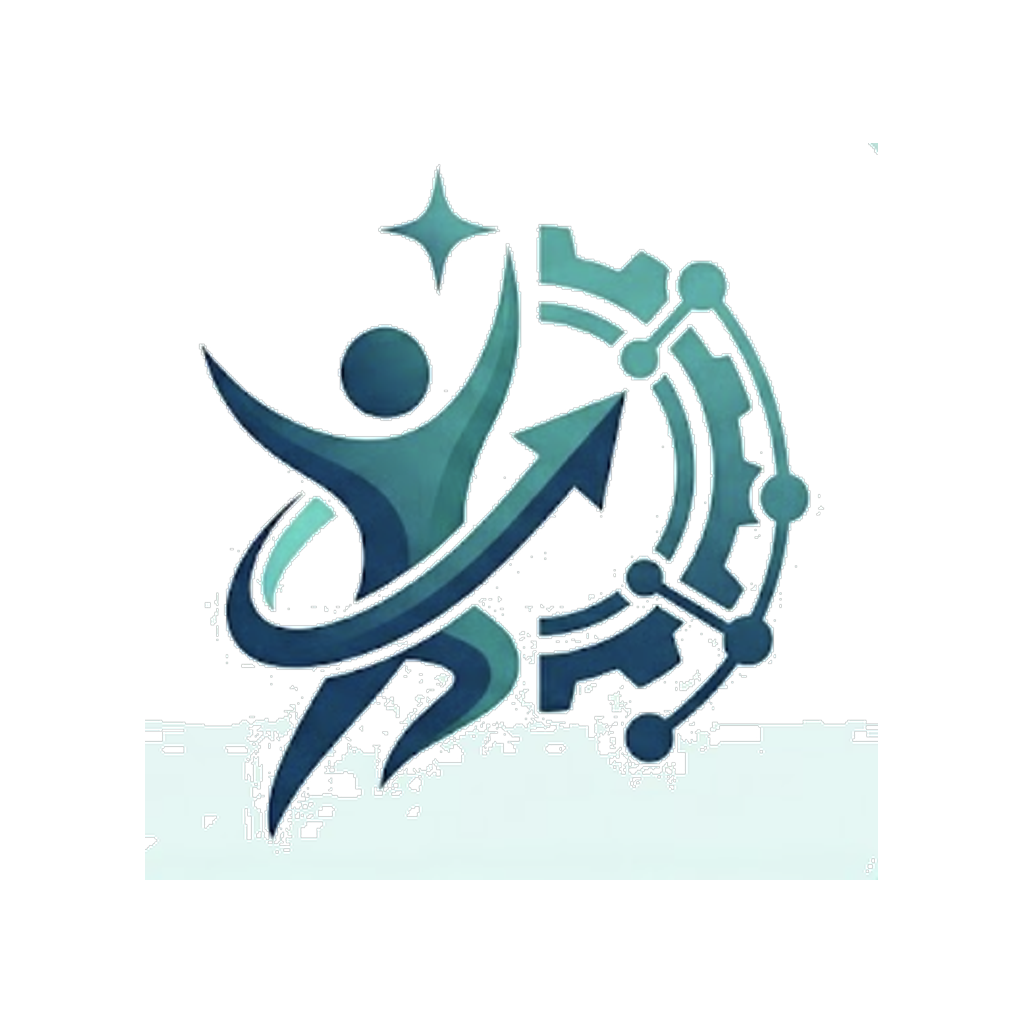
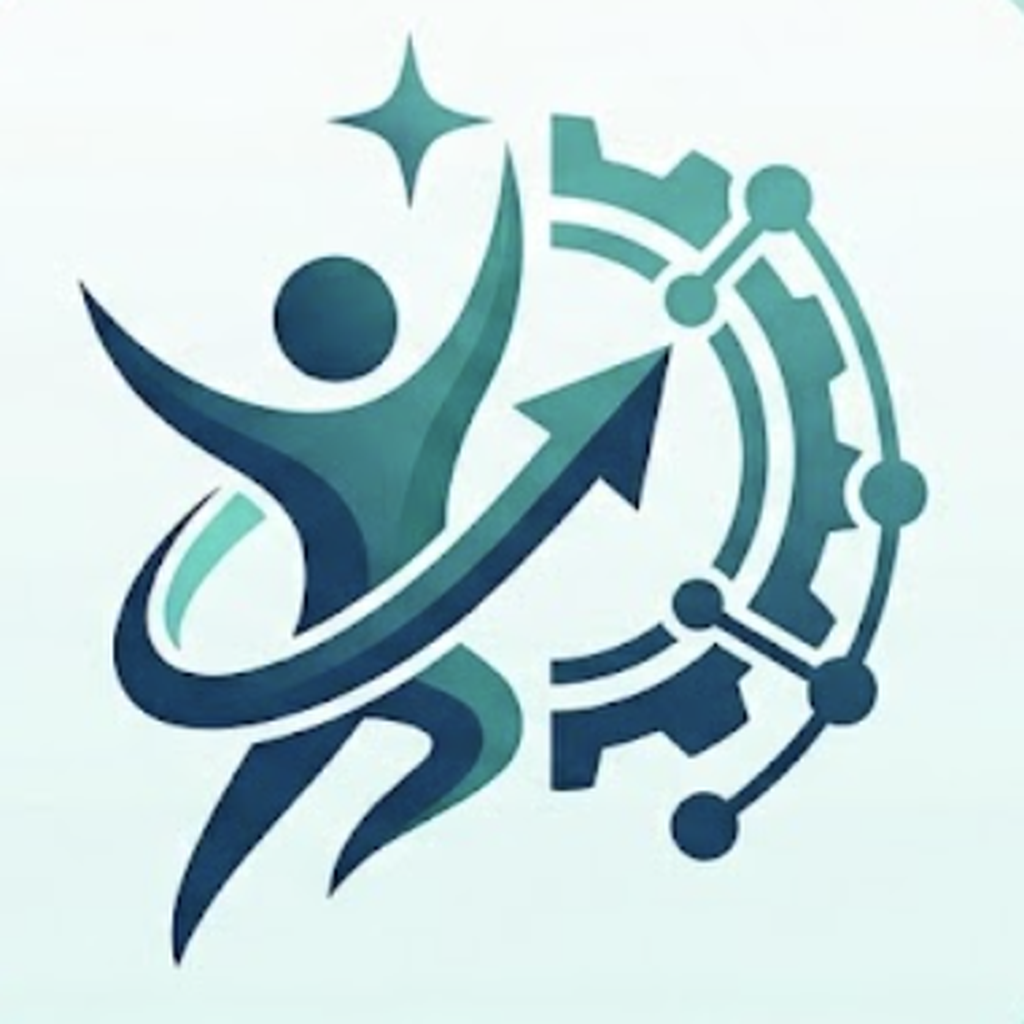
Redesign habit card: unified view + modal edit/delete/details (#11)
* Redesign habit card: unified home/habits view, modal-based edit/delete and details

Card click opens a read-only details modal with stats and simple charts;
the pencil icon opens edit+delete in a modal, and reset streak stays as a
top-corner icon. The same HabitCard is now clearly shared between the home
dashboard and the habits page.

* Fix mobile app icon (was rendering black) and bump native app version to 1.3.0

The bundled icon.png/adaptive-icon.png had a black canvas baked in, so the
iOS/Android app icons showed mostly black instead of the light logo used on
the website. Regenerate both from public/logo.png so they match the site,
and set the Android adaptive icon background to white to match.

---------

diff --git a/app/habits/habit-card.tsx b/app/habits/habit-card.tsx
@@ -3,9 +3,9 @@
 import { useState, useTransition } from "react";
 import { useRouter } from "next/navigation";
 import type { Habit } from "@/lib/types";
-import { Badge, inputClass, PrimaryActionButton, WarnActionButton, IconEditButton, IconDeleteButton } from "@/components/ui";
+import { Badge, inputClass, Modal, PrimaryActionButton, WarnActionButton, IconEditButton } from "@/components/ui";
 import { effectiveStreak, normalizeReportTime } from "@/lib/habit-stats";
-import { localeTag } from "@/lib/i18n/core";
+import { localeTag, formatLocaleDate } from "@/lib/i18n/core";
 import { checkInHabit, resetHabit, deleteHabit, updateHabit, reportHabitFall } from "./actions";
 import { Flame, RotateCcw, Trash2, Check, TrendingUp, ThumbsUp, AlertTriangle, Pencil, Clock } from "lucide-react";
 import { useTranslations } from "@/components/locale-provider";
@@ -14,6 +14,7 @@ export function HabitCard({ habit, today }: { habit: Habit; today: string }) {
   const router = useRouter();
   const { t, locale } = useTranslations();
   const [editing, setEditing] = useState(false);
+  const [viewing, setViewing] = useState(false);
   const [pending, startTransition] = useTransition();
 
   const checkedToday = habit.last_checked_on === today;
@@ -45,8 +46,25 @@ export function HabitCard({ habit, today }: { habit: Habit; today: string }) {
     });
   }
 
+  function onDeleteSubmit(e: React.FormEvent<HTMLFormElement>) {
+    if (!window.confirm(t("habits.confirmDelete", { name: habit.name }))) {
+      e.preventDefault();
+    }
+  }
+
+  const successTotal = successDays + failures;
+  const successPct = successTotal > 0 ? Math.round((successDays / successTotal) * 100) : 0;
+  const failurePct = 100 - successPct;
+  const streakPct = habit.best_streak > 0 ? Math.min(100, Math.round((currentStreak / habit.best_streak) * 100)) : 0;
+
   return (
-    <div className="card flex flex-col gap-1.5 p-3">
+    <div
+      className="card flex cursor-pointer flex-col gap-1.5 p-3 transition hover:border-accent/50"
+      onClick={() => setViewing(true)}
+      role="button"
+      tabIndex={0}
+      title={t("habits.viewDetails")}
+    >
       <div className="flex items-start justify-between gap-2">
         <div className="min-w-0 flex-1">
           <div className="flex flex-wrap items-center gap-1.5">
@@ -59,26 +77,16 @@ export function HabitCard({ habit, today }: { habit: Habit; today: string }) {
             <p className="mt-0.5 line-clamp-2 text-[11px] leading-snug text-muted">{habit.target_note}</p>
           )}
         </div>
-        <div className="flex shrink-0 items-center gap-0.5">
-          <IconEditButton
-            title={t("habits.editData")}
-            aria-expanded={editing}
-            onClick={() => setEditing((v) => !v)}
-          >
-            <Pencil size={13} />
-          </IconEditButton>
+        <div className="flex shrink-0 items-center gap-0.5" onClick={(e) => e.stopPropagation()}>
           <form action={resetHabit} className="inline">
             <input type="hidden" name="id" value={habit.id} />
             <button className="rounded-md p-1 text-muted transition hover:text-warn" title={t("habits.resetStreak")}>
               <RotateCcw size={13} />
             </button>
           </form>
-          <form action={deleteHabit}>
-            <input type="hidden" name="id" value={habit.id} />
-            <IconDeleteButton type="submit" title={t("common.delete")}>
-              <Trash2 size={13} />
-            </IconDeleteButton>
-          </form>
+          <IconEditButton title={t("habits.editOrDelete")} onClick={() => setEditing(true)}>
+            <Pencil size={13} />
+          </IconEditButton>
         </div>
       </div>
 
@@ -124,55 +132,8 @@ export function HabitCard({ habit, today }: { habit: Habit; today: string }) {
         )}
       </div>
 
-      {editing && (
-        <form onSubmit={onEditSubmit} className="grid gap-1.5 rounded-lg border border-border/60 bg-bg/40 p-2.5 text-xs">
-          <input type="hidden" name="id" value={habit.id} />
-          <input type="text" name="name" defaultValue={habit.name} required className={inputClass} placeholder={t("habits.name")} />
-          <select name="kind" defaultValue={habit.kind} className={inputClass}>
-            <option value="build">{t("habits.build")}</option>
-            <option value="quit">{t("habits.quit")}</option>
-          </select>
-          <input type="text" name="target_note" defaultValue={habit.target_note || ""} placeholder={t("habits.note")} className={inputClass} />
-          <div className="grid grid-cols-2 gap-1.5">
-            <label className="text-muted">
-              {t("home.currentStreak")}
-              <input type="number" name="streak_count" min={0} defaultValue={habit.streak_count} className={`${inputClass} mt-0.5`} />
-            </label>
-            <label className="text-muted">
-              {t("home.bestStreak")}
-              <input type="number" name="best_streak" min={0} defaultValue={habit.best_streak} className={`${inputClass} mt-0.5`} />
-            </label>
-            <label className="text-muted">
-              {t("home.positiveDays")}
-              <input type="number" name="total_success_days" min={0} defaultValue={habit.total_success_days ?? 0} className={`${inputClass} mt-0.5`} />
-            </label>
-            <label className="text-muted">
-              {t("common.failures")}
-              <input type="number" name="failure_count" min={0} defaultValue={habit.failure_count ?? 0} className={`${inputClass} mt-0.5`} />
-            </label>
-          </div>
-          <div className="grid grid-cols-2 gap-1.5">
-            <label className="text-muted">
-              {t("habits.lastCheck")}
-              <input type="date" name="last_checked_on" defaultValue={habit.last_checked_on || ""} className={`${inputClass} mt-0.5`} />
-            </label>
-            <label className="text-muted">
-              {t("habits.reportTime")}
-              <input type="time" name="report_time" defaultValue={reportTime} className={`${inputClass} mt-0.5`} />
-            </label>
-          </div>
-          <button
-            type="submit"
-            disabled={pending}
-            className="rounded-lg bg-accent px-2.5 py-1 font-medium text-bg hover:opacity-90 disabled:opacity-50"
-          >
-            {pending ? t("common.saving") : t("habits.saveChanges")}
-          </button>
-        </form>
-      )}
-
       {!checkedToday && (
-        <div className="flex gap-2">
+        <div className="flex gap-2" onClick={(e) => e.stopPropagation()}>
           <form action={checkInHabit} className="flex-1">
             <input type="hidden" name="id" value={habit.id} />
             <PrimaryActionButton fullWidth>
@@ -187,6 +148,160 @@ export function HabitCard({ habit, today }: { habit: Habit; today: string }) {
               {t("habits.reportFall")}
             </WarnActionButton>
           </form>
+        </div>
+      )}
+
+      {editing && (
+        <div onClick={(e) => e.stopPropagation()}>
+          <Modal title={t("habits.editOrDelete")} onClose={() => setEditing(false)}>
+            <form onSubmit={onEditSubmit} className="grid gap-1.5 text-xs">
+              <input type="hidden" name="id" value={habit.id} />
+              <input type="text" name="name" defaultValue={habit.name} required className={inputClass} placeholder={t("habits.name")} />
+              <select name="kind" defaultValue={habit.kind} className={inputClass}>
+                <option value="build">{t("habits.build")}</option>
+                <option value="quit">{t("habits.quit")}</option>
+              </select>
+              <input type="text" name="target_note" defaultValue={habit.target_note || ""} placeholder={t("habits.note")} className={inputClass} />
+              <div className="grid grid-cols-2 gap-1.5">
+                <label className="text-muted">
+                  {t("home.currentStreak")}
+                  <input type="number" name="streak_count" min={0} defaultValue={habit.streak_count} className={`${inputClass} mt-0.5`} />
+                </label>
+                <label className="text-muted">
+                  {t("home.bestStreak")}
+                  <input type="number" name="best_streak" min={0} defaultValue={habit.best_streak} className={`${inputClass} mt-0.5`} />
+                </label>
+                <label className="text-muted">
+                  {t("home.positiveDays")}
+                  <input type="number" name="total_success_days" min={0} defaultValue={habit.total_success_days ?? 0} className={`${inputClass} mt-0.5`} />
+                </label>
+                <label className="text-muted">
+                  {t("common.failures")}
+                  <input type="number" name="failure_count" min={0} defaultValue={habit.failure_count ?? 0} className={`${inputClass} mt-0.5`} />
+                </label>
+              </div>
+              <div className="grid grid-cols-2 gap-1.5">
+                <label className="text-muted">
+                  {t("habits.lastCheck")}
+                  <input type="date" name="last_checked_on" defaultValue={habit.last_checked_on || ""} className={`${inputClass} mt-0.5`} />
+                </label>
+                <label className="text-muted">
+                  {t("habits.reportTime")}
+                  <input type="time" name="report_time" defaultValue={reportTime} className={`${inputClass} mt-0.5`} />
+                </label>
+              </div>
+              <button
+                type="submit"
+                disabled={pending}
+                className="rounded-lg bg-accent px-2.5 py-1 font-medium text-bg hover:opacity-90 disabled:opacity-50"
+              >
+                {pending ? t("common.saving") : t("habits.saveChanges")}
+              </button>
+            </form>
+            <form action={deleteHabit} onSubmit={onDeleteSubmit} className="mt-2 border-t border-border/60 pt-2">
+              <input type="hidden" name="id" value={habit.id} />
+              <WarnActionButton fullWidth title={t("common.delete")}>
+                <Trash2 size={13} />
+                {t("common.delete")}
+              </WarnActionButton>
+            </form>
+          </Modal>
+        </div>
+      )}
+
+      {viewing && (
+        <div onClick={(e) => e.stopPropagation()}>
+          <Modal title={habit.name} onClose={() => setViewing(false)}>
+            <div className="flex flex-col gap-3 text-sm">
+              <div className="flex flex-wrap items-center gap-1.5">
+                <Badge tone={habit.kind === "quit" ? "warn" : "good"}>
+                  {habit.kind === "quit" ? t("habits.quit") : t("habits.build")}
+                </Badge>
+                <span className="text-xs text-muted">
+                  {t("habits.created")}: {formatLocaleDate(locale, habit.created_at)}
+                </span>
+              </div>
+
+              {habit.target_note && <p className="text-xs leading-snug text-muted">{habit.target_note}</p>}
+
+              <div className="grid grid-cols-2 gap-2 text-center sm:grid-cols-4">
+                <div className="rounded-md bg-border/25 px-1 py-1.5">
+                  <div className="flex items-center justify-center gap-0.5 text-[10px] text-muted">
+                    <Flame size={10} className="text-accent2" />
+                    <span className="truncate">{t("home.currentStreak")}</span>
+                  </div>
+                  <p className="text-base font-bold leading-tight">{currentStreak}</p>
+                </div>
+                <div className="rounded-md bg-border/25 px-1 py-1.5">
+                  <div className="flex items-center justify-center gap-0.5 text-[10px] text-muted">
+                    <TrendingUp size={10} className="text-accent" />
+                    <span className="truncate">{t("home.bestStreak")}</span>
+                  </div>
+                  <p className="text-base font-bold leading-tight">{habit.best_streak}</p>
+                </div>
+                <div className="rounded-md bg-border/25 px-1 py-1.5">
+                  <div className="flex items-center justify-center gap-0.5 text-[10px] text-muted">
+                    <ThumbsUp size={10} className="text-good" />
+                    <span className="truncate">{t("home.positiveDays")}</span>
+                  </div>
+                  <p className="text-base font-bold leading-tight">{successDays}</p>
+                </div>
+                <div className="rounded-md bg-border/25 px-1 py-1.5">
+                  <div className="flex items-center justify-center gap-0.5 text-[10px] text-muted">
+                    <AlertTriangle size={10} className="text-warn" />
+                    <span className="truncate">{t("common.failures")}</span>
+                  </div>
+                  <p className="text-base font-bold leading-tight">{failures}</p>
+                </div>
+              </div>
+
+              <div className="text-[11px] text-muted">
+                {t("habits.lastReported")}: {lastReported ?? t("habits.neverReported")}
+                {reportTime !== "00:00" && (
+                  <span className="ms-2">{t("habits.reportOpensAt", { time: reportTime })}</span>
+                )}
+              </div>
+
+              {habit.best_streak > 0 && (
+                <div>
+                  <div className="mb-1 flex items-center justify-between text-[11px] text-muted">
+                    <span>{t("habits.streakProgress")}</span>
+                    <span className="font-medium text-ink">
+                      {currentStreak}/{habit.best_streak}
+                    </span>
+                  </div>
+                  <div className="h-2 w-full overflow-hidden rounded-full bg-border/40">
+                    <div
+                      className="h-full rounded-full bg-accent2 transition-all"
+                      style={{ width: `${streakPct}%` }}
+                    />
+                  </div>
+                </div>
+              )}
+
+              {successTotal > 0 && (
+                <div>
+                  <div className="mb-1 flex items-center justify-between text-[11px] text-muted">
+                    <span>{t("habits.successVsFailure")}</span>
+                  </div>
+                  <div className="flex h-3 w-full overflow-hidden rounded-full bg-border/40">
+                    <div className="h-full bg-good" style={{ width: `${successPct}%` }} />
+                    <div className="h-full bg-warn" style={{ width: `${failurePct}%` }} />
+                  </div>
+                  <div className="mt-1 flex items-center justify-between text-[10px] text-muted">
+                    <span className="flex items-center gap-1">
+                      <span className="h-2 w-2 rounded-full bg-good" />
+                      {t("habits.successDays")}: {successDays}
+                    </span>
+                    <span className="flex items-center gap-1">
+                      <span className="h-2 w-2 rounded-full bg-warn" />
+                      {t("habits.failureDays")}: {failures}
+                    </span>
+                  </div>
+                </div>
+              )}
+            </div>
+          </Modal>
         </div>
       )}
     </div>

diff --git a/components/ui/modal.tsx b/components/ui/modal.tsx
@@ -1,0 +1,50 @@
+"use client";
+
+import { useEffect } from "react";
+import { X } from "lucide-react";
+import { useTranslations } from "@/components/locale-provider";
+
+export function Modal({
+  title,
+  onClose,
+  children,
+}: {
+  title: string;
+  onClose: () => void;
+  children: React.ReactNode;
+}) {
+  const { t } = useTranslations();
+
+  useEffect(() => {
+    function onKey(e: KeyboardEvent) {
+      if (e.key === "Escape") onClose();
+    }
+    document.addEventListener("keydown", onKey);
+    return () => document.removeEventListener("keydown", onKey);
+  }, [onClose]);
+
+  return (
+    <div
+      className="fixed inset-0 z-50 flex items-center justify-center bg-bg/70 p-4 backdrop-blur-sm"
+      onClick={onClose}
+    >
+      <div
+        className="card max-h-[85vh] w-full max-w-md overflow-y-auto p-4"
+        onClick={(e) => e.stopPropagation()}
+      >
+        <div className="mb-3 flex items-center justify-between gap-2">
+          <h3 className="text-base font-bold">{title}</h3>
+          <button
+            type="button"
+            onClick={onClose}
+            title={t("common.close")}
+            className="rounded-md p-1 text-muted transition hover:text-ink"
+          >
+            <X size={16} />
+          </button>
+        </div>
+        {children}
+      </div>
+    </div>
+  );
+}

diff --git a/lib/i18n/messages.ts b/lib/i18n/messages.ts
@@ -170,6 +170,14 @@ export const messages = {
       neverReported: "טרם דווח",
       reportOpensAt: "דיווח נפתח ב-{time}",
       saveChanges: "שמירת שינויים",
+      viewDetails: "צפייה בפרטי ההרגל",
+      editOrDelete: "עריכה או מחיקה",
+      created: "נוצר בתאריך",
+      successVsFailure: "ימי הצלחה מול נפילות",
+      successDays: "ימי הצלחה",
+      failureDays: "נפילות",
+      streakProgress: "רצף נוכחי מול השיא",
+      confirmDelete: "למחוק את ההרגל \"{name}\"? הפעולה לא ניתנת לביטול.",
     },
     goals: {
       title: "מטרות, חלומות ויעדים",
@@ -602,6 +610,14 @@ export const messages = {
       neverReported: "Not reported yet",
       reportOpensAt: "Report opens at {time}",
       saveChanges: "Save changes",
+      viewDetails: "View habit details",
+      editOrDelete: "Edit or delete",
+      created: "Created on",
+      successVsFailure: "Success days vs. failures",
+      successDays: "Success days",
+      failureDays: "Failures",
+      streakProgress: "Current streak vs. best",
+      confirmDelete: "Delete habit \"{name}\"? This cannot be undone.",
     },
     goals: {
       title: "Goals, Dreams & Targets",

diff --git a/components/ui/index.ts b/components/ui/index.ts
@@ -29,3 +29,4 @@ export {
   SubmitButton,
   IconButton,
 } from "./primitives";
+export { Modal } from "./modal";